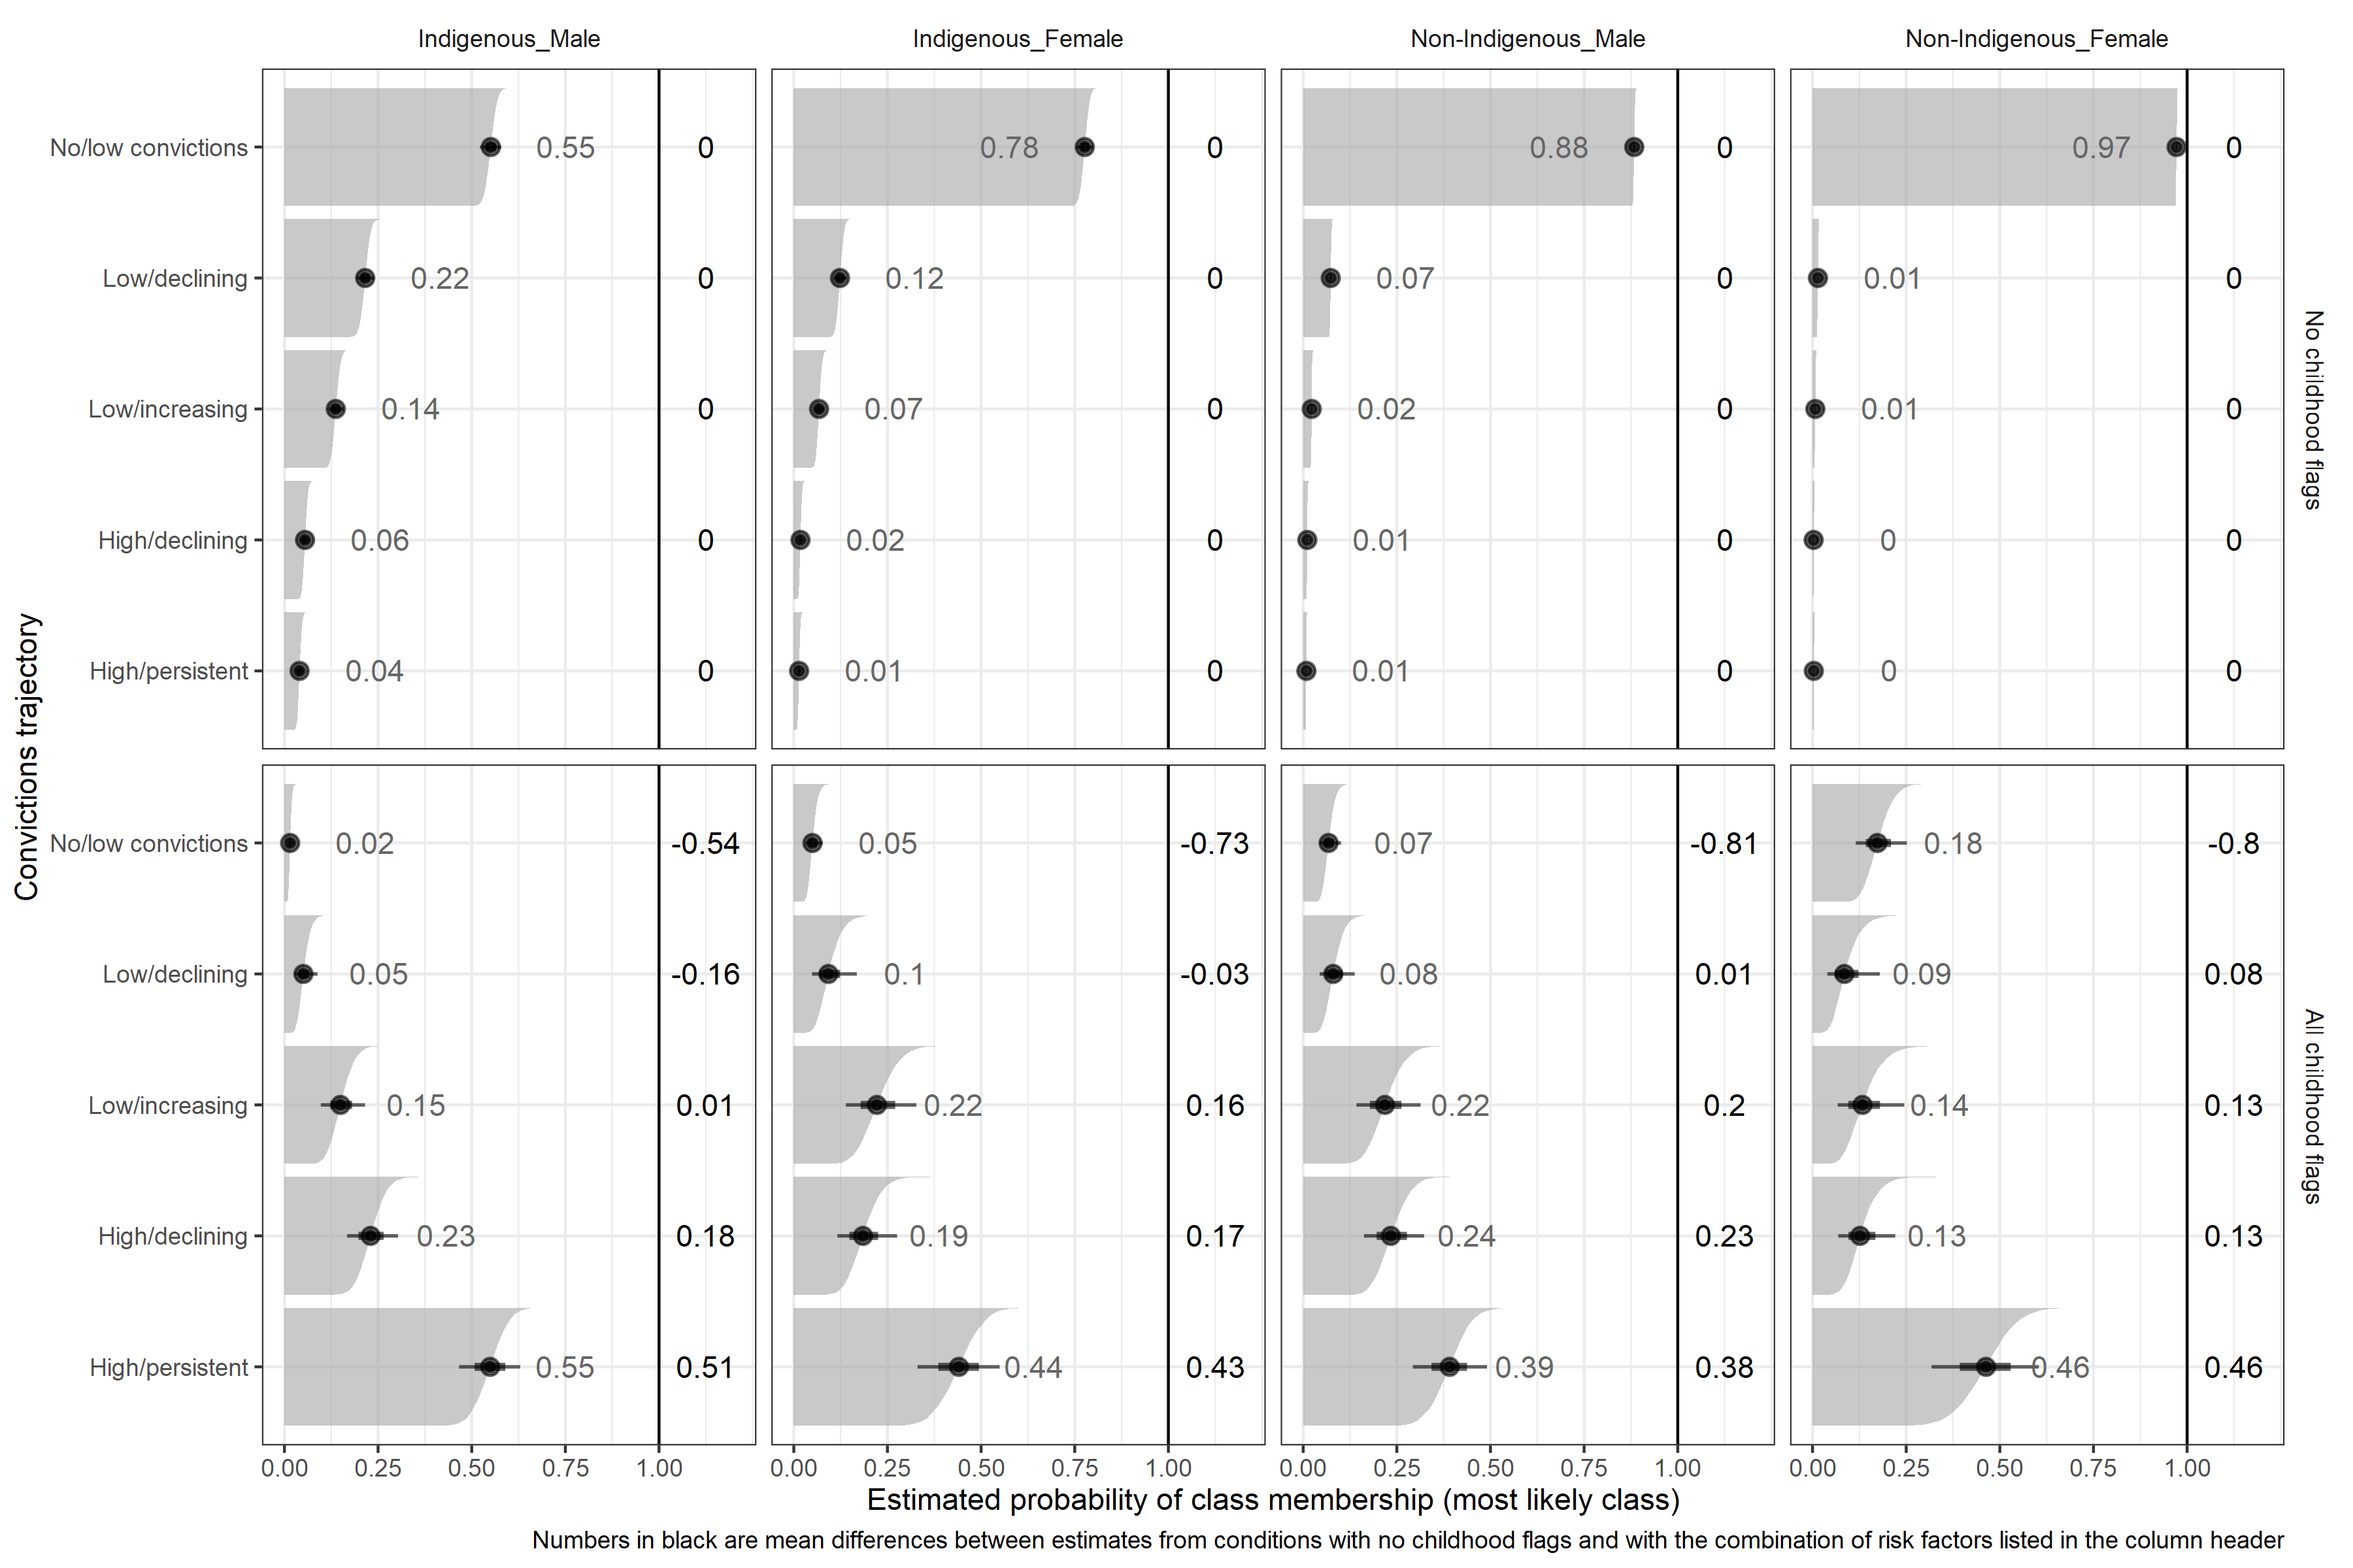
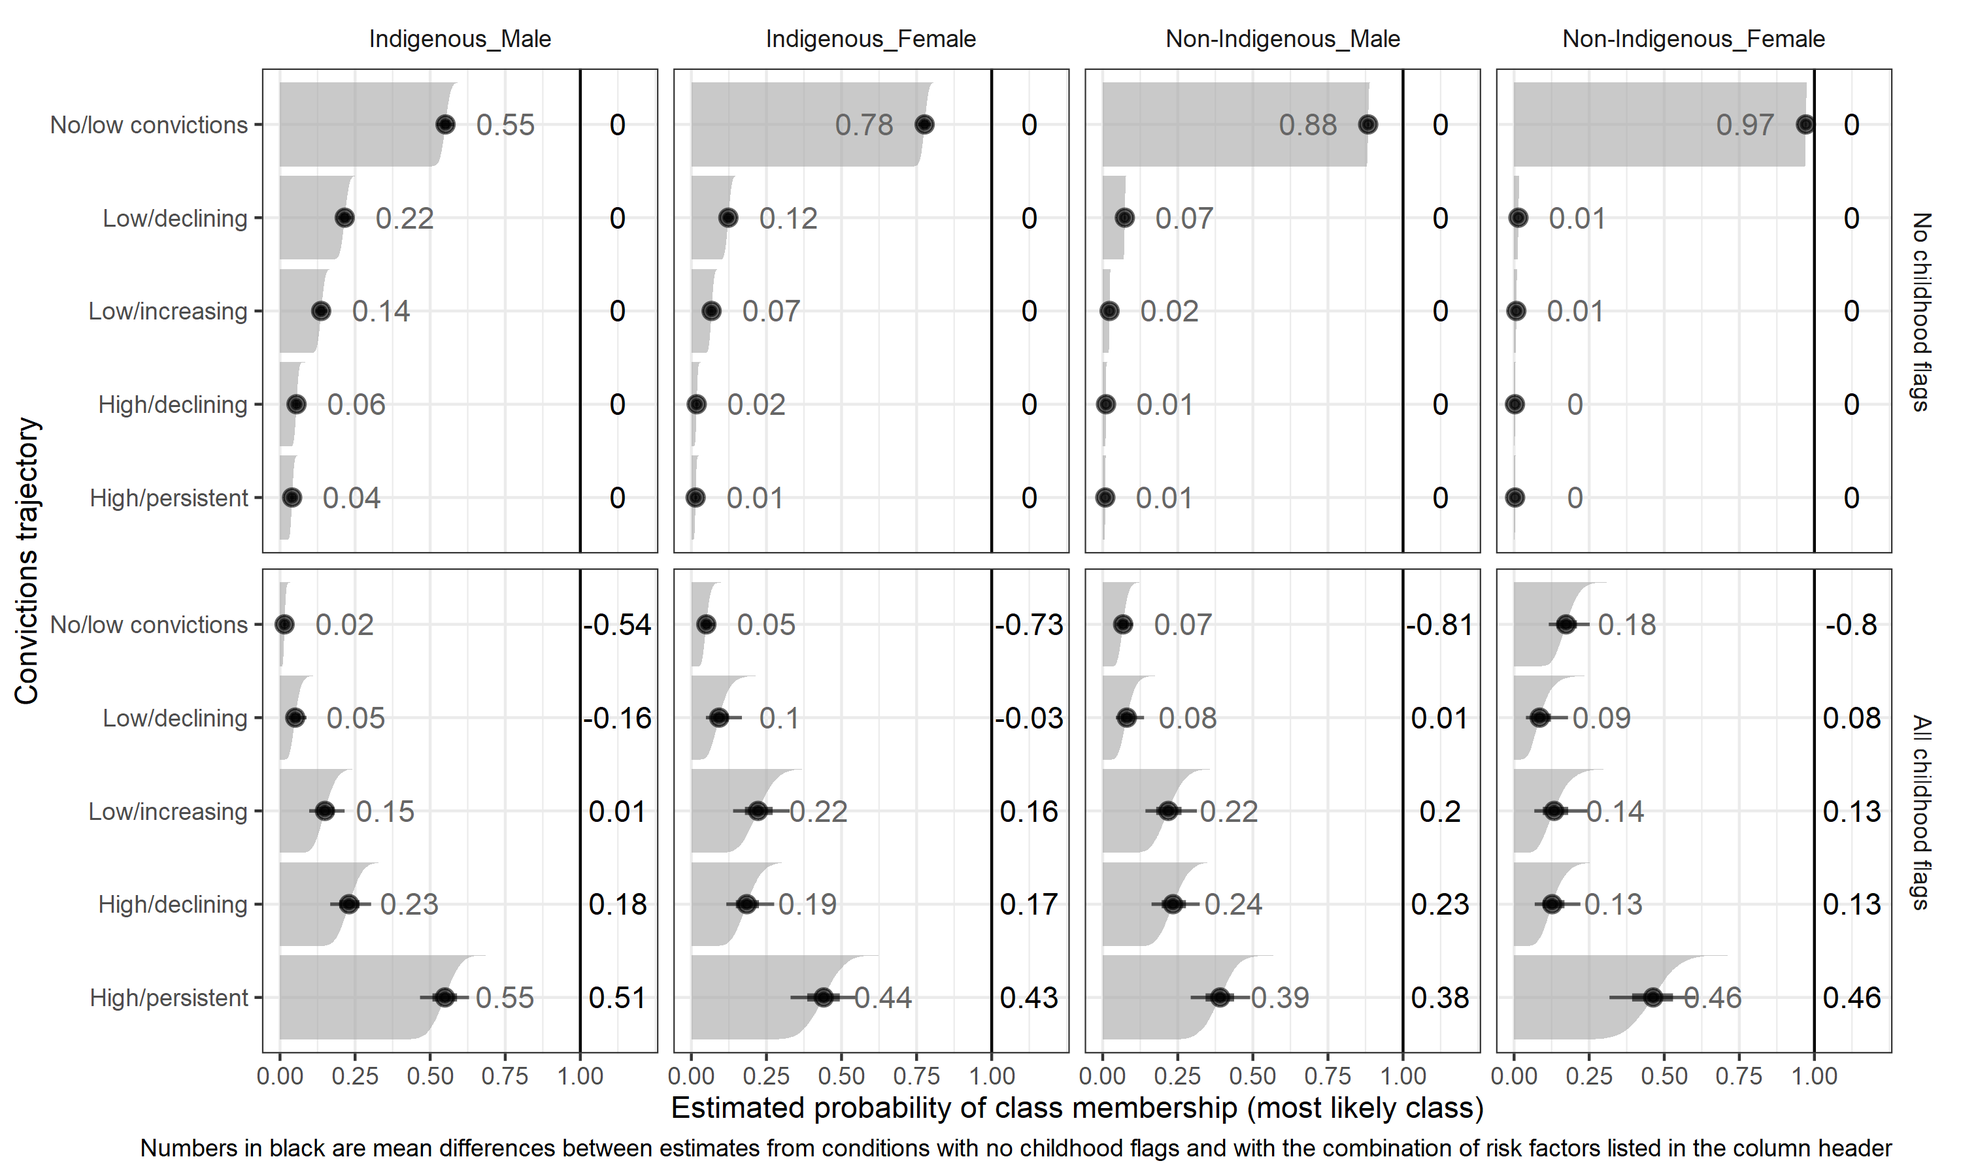
change figure size

diff --git a/docs/index.html b/docs/index.html
@@ -101,7 +101,7 @@ class: center, middle, inverse
 
 ---
 
-## Tooooo many graphs?
+# Conviction trajectory probabilities
 
 &lt;img src="https://raw.githubusercontent.com/benmatthewsed/esc-2020/master/docs/figures/esc_plot.png" width="78%" style="display: block; margin: auto;" /&gt;
 
